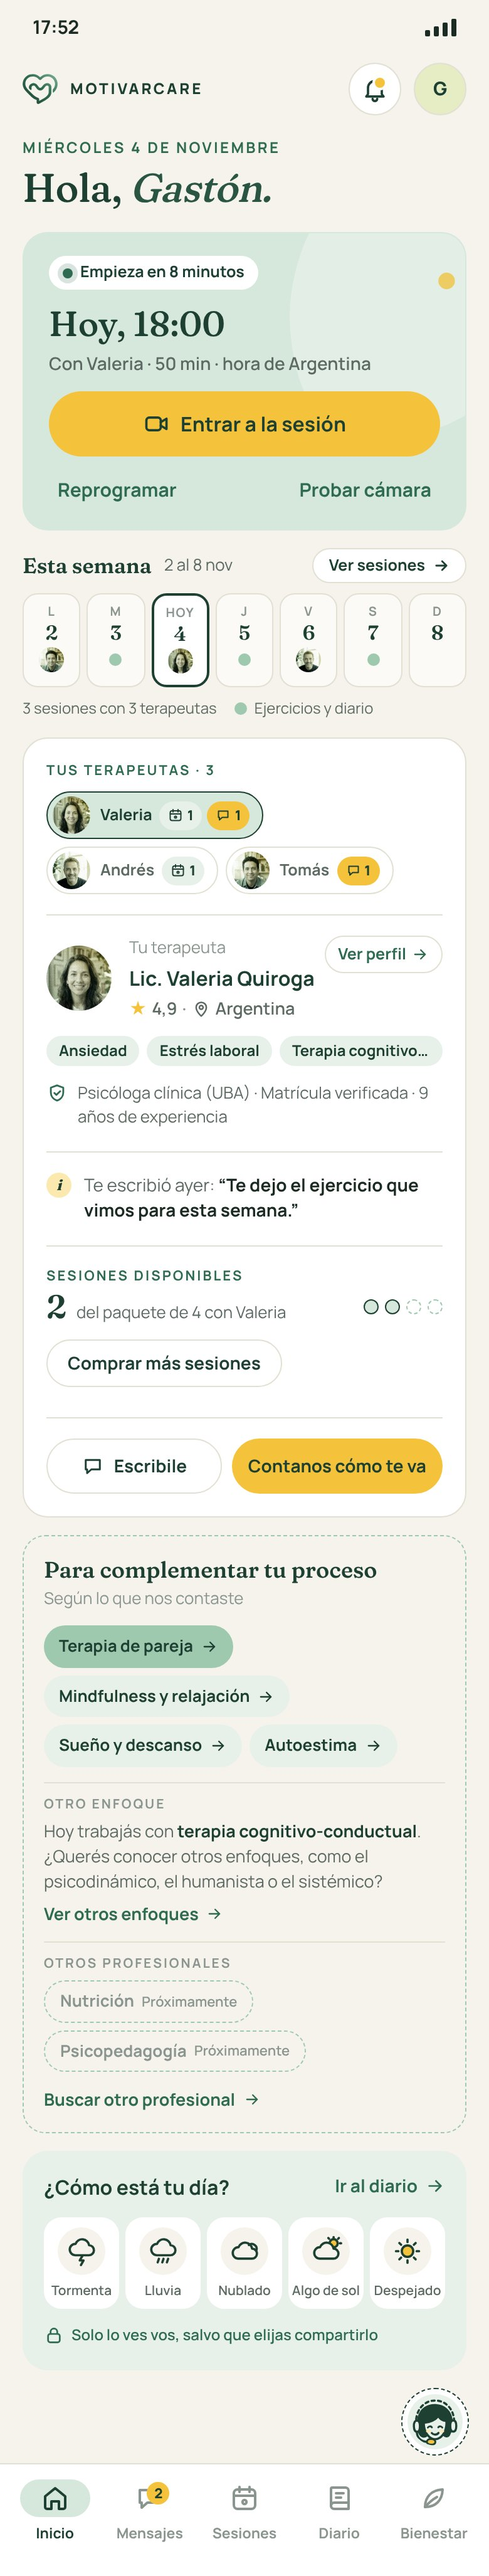
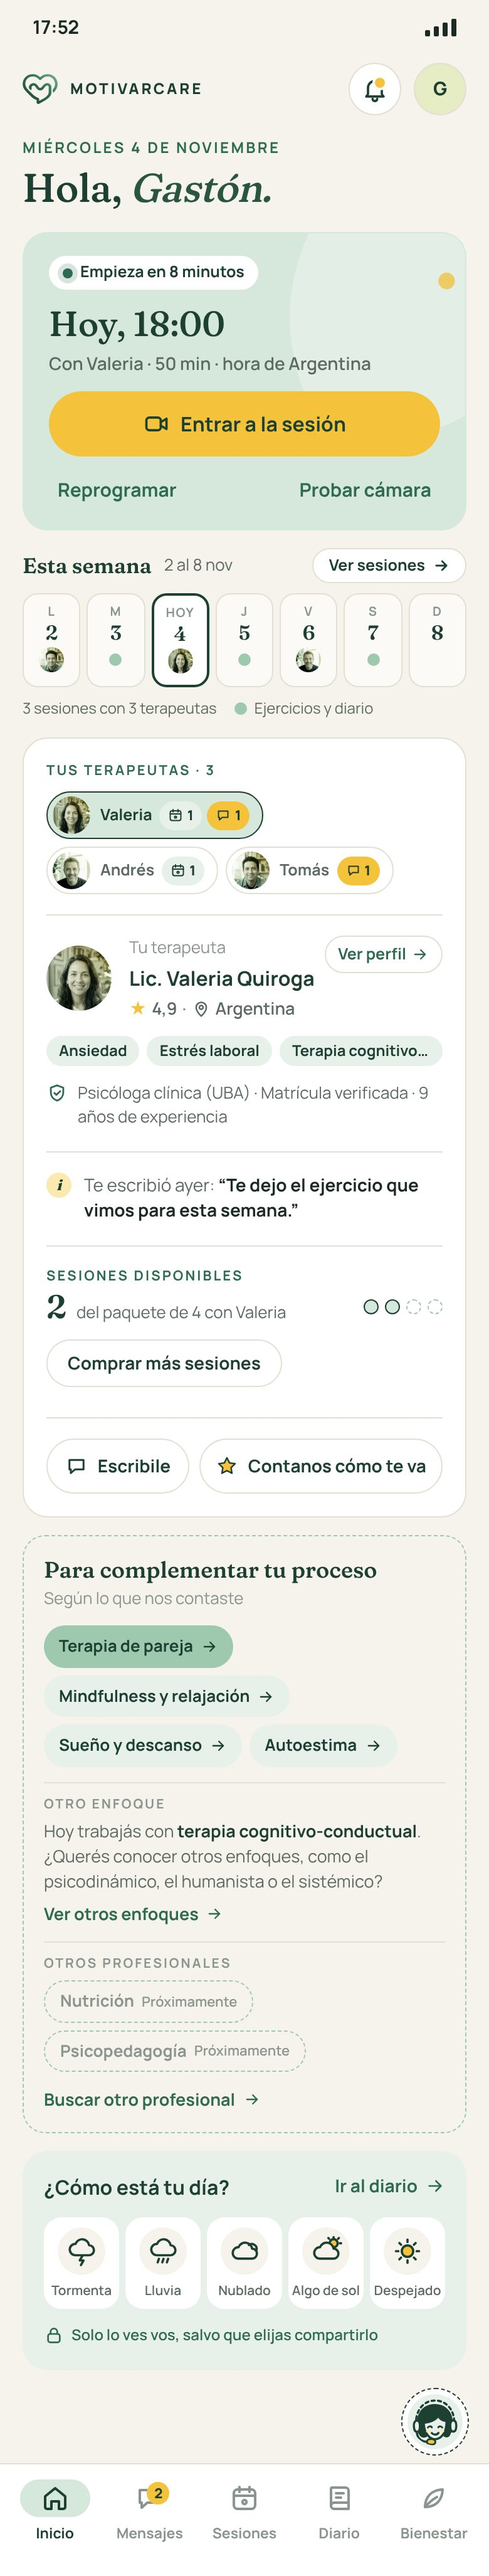
Ronda #2: «Contanos cómo te va» de contorno con estrella amarilla
Claude-Session: https://claude.ai/code/session_01WU1DRuLLvKJwMVuiPWLics

Changed region(s): [[0.4308, 0.5609, 0.9231, 0.592], [0.3385, 0.5609, 0.3692, 0.592]]

diff --git a/web/public/app-usuario/ronda-2.html b/web/public/app-usuario/ronda-2.html
@@ -837,6 +837,7 @@ ul.lista-simple { padding: 0; }
 .pro2-cab { padding-right: 96px; }
 .tel-pro .pro2-cab { padding-right: 88px; }
 .multi .pro2-cab { padding-right: 96px; }
+.estrella-ic { width: 18px; height: 18px; fill: var(--amarillo); stroke: var(--bosque); stroke-width: 1.6; stroke-linejoin: round; flex: none; }
 </style>
 </head>
 <body>
@@ -950,7 +951,7 @@ ul.lista-simple { padding: 0; }
           <p class="credenciales"><svg class="ico"><use href="#i-escudo"/></svg>Psicóloga clínica (UBA) · Matrícula verificada · 9 años de experiencia</p>
           <div class="nota"><i>i</i><span>Te escribió ayer: <b style="color:var(--tinta)">“Te dejo el ejercicio que vimos para esta semana.”</b></span></div>
           <div class="disponibles"><span class="et">Sesiones disponibles</span><div class="fila-disp"><b>2</b><span>del paquete de 4 con Valeria</span><span class="puntos4"><i class="u"></i><i class="u"></i><i></i><i></i></span></div><a class="boton contorno comprar-mas">Comprar más sesiones</a></div>
-          <div class="botones"><a class="boton contorno"><svg class="ico chico"><use href="#i-chat"/></svg>Escribile</a><a class="boton primario">Contanos cómo te va</a></div>
+          <div class="botones"><a class="boton contorno"><svg class="ico chico"><use href="#i-chat"/></svg>Escribile</a><a class="boton contorno contar"><svg class="estrella-ic" viewBox="0 0 24 24" aria-hidden="true"><path d="M12 3.2l2.7 5.4 6 .9-4.35 4.2 1 5.9L12 16.8l-5.35 2.8 1-5.9L3.3 9.5l6-.9z"/></svg>Contanos cómo te va</a></div>
         </article>
           <div class="complementar">
             <div class="comp-cab"><b>Para complementar tu proceso</b><span class="tenue">Según lo que nos contaste</span></div>
@@ -1018,7 +1019,7 @@ ul.lista-simple { padding: 0; }
       <p class="credenciales"><svg class="ico"><use href="#i-escudo"/></svg>Psicóloga clínica (UBA) · Matrícula verificada · 9 años de experiencia</p>
           <div class="nota"><i>i</i><span>Te escribió ayer: <b style="color:var(--tinta)">“Te dejo el ejercicio que vimos para esta semana.”</b></span></div>
       <div class="disponibles"><span class="et">Sesiones disponibles</span><div class="fila-disp"><b>2</b><span>del paquete de 4 con Valeria</span><span class="puntos4"><i class="u"></i><i class="u"></i><i></i><i></i></span></div><a class="boton contorno comprar-mas">Comprar más sesiones</a></div>
-      <div class="botones"><a class="boton contorno"><svg class="ico chico"><use href="#i-chat"/></svg>Escribile</a><a class="boton primario">Contanos cómo te va</a></div>
+      <div class="botones"><a class="boton contorno"><svg class="ico chico"><use href="#i-chat"/></svg>Escribile</a><a class="boton contorno contar"><svg class="estrella-ic" viewBox="0 0 24 24" aria-hidden="true"><path d="M12 3.2l2.7 5.4 6 .9-4.35 4.2 1 5.9L12 16.8l-5.35 2.8 1-5.9L3.3 9.5l6-.9z"/></svg>Contanos cómo te va</a></div>
     </article>
     <div class="complementar tel-comp">
             <div class="comp-cab"><b>Para complementar tu proceso</b><span class="tenue">Según lo que nos contaste</span></div>
@@ -1135,7 +1136,7 @@ ul.lista-simple { padding: 0; }
           <div class="pills"><span class="chip">Ansiedad</span><span class="chip">Estrés laboral</span><span class="chip">Terapia cognitivo-conductual</span><span class="chip">Autoestima</span><span class="chip">Vínculos</span></div>
           <p class="credenciales"><svg class="ico"><use href="#i-escudo"/></svg>Psicóloga clínica (UBA) · Matrícula verificada · 9 años de experiencia</p>
           <div class="disponibles"><span class="et">Sesiones disponibles</span><div class="fila-disp"><b>1</b><span>del paquete de 4 con Valeria</span><span class="puntos4"><i class="u"></i><i class="u"></i><i class="u"></i><i></i></span></div><a class="boton bosque comprar-mas">Comprar más sesiones</a></div>
-          <div class="botones"><a class="boton contorno"><svg class="ico chico"><use href="#i-chat"/></svg>Escribile</a><a class="boton primario">Contanos cómo te va</a></div>
+          <div class="botones"><a class="boton contorno"><svg class="ico chico"><use href="#i-chat"/></svg>Escribile</a><a class="boton contorno contar"><svg class="estrella-ic" viewBox="0 0 24 24" aria-hidden="true"><path d="M12 3.2l2.7 5.4 6 .9-4.35 4.2 1 5.9L12 16.8l-5.35 2.8 1-5.9L3.3 9.5l6-.9z"/></svg>Contanos cómo te va</a></div>
         </article>
           <div class="complementar">
             <div class="comp-cab"><b>Para complementar tu proceso</b><span class="tenue">Según lo que nos contaste</span></div>
@@ -1207,7 +1208,7 @@ ul.lista-simple { padding: 0; }
       <div class="pills"><span class="chip">Ansiedad</span><span class="chip">Estrés laboral</span><span class="chip">Terapia cognitivo-conductual</span><span class="chip">Autoestima</span><span class="chip">Vínculos</span></div>
       <p class="credenciales"><svg class="ico"><use href="#i-escudo"/></svg>Psicóloga clínica (UBA) · Matrícula verificada · 9 años de experiencia</p>
       <div class="disponibles"><span class="et">Sesiones disponibles</span><div class="fila-disp"><b>1</b><span>del paquete de 4 con Valeria</span><span class="puntos4"><i class="u"></i><i class="u"></i><i class="u"></i><i></i></span></div><a class="boton bosque comprar-mas">Comprar más sesiones</a></div>
-      <div class="botones"><a class="boton contorno"><svg class="ico chico"><use href="#i-chat"/></svg>Escribile</a><a class="boton primario">Contanos cómo te va</a></div>
+      <div class="botones"><a class="boton contorno"><svg class="ico chico"><use href="#i-chat"/></svg>Escribile</a><a class="boton contorno contar"><svg class="estrella-ic" viewBox="0 0 24 24" aria-hidden="true"><path d="M12 3.2l2.7 5.4 6 .9-4.35 4.2 1 5.9L12 16.8l-5.35 2.8 1-5.9L3.3 9.5l6-.9z"/></svg>Contanos cómo te va</a></div>
     </article>
     <div class="complementar tel-comp">
             <div class="comp-cab"><b>Para complementar tu proceso</b><span class="tenue">Según lo que nos contaste</span></div>
@@ -1504,7 +1505,7 @@ ul.lista-simple { padding: 0; }
           <p class="credenciales"><svg class="ico"><use href="#i-escudo"/></svg>Psicóloga clínica (UBA) · Matrícula verificada · 9 años de experiencia</p>
           <div class="nota"><i>i</i><span>Te escribió ayer: <b style="color:var(--tinta)">“Te dejo el ejercicio que vimos para esta semana.”</b></span></div>
           <div class="disponibles"><span class="et">Sesiones disponibles</span><div class="fila-disp"><b>2</b><span>del paquete de 4 con Valeria</span><span class="puntos4"><i class="u"></i><i class="u"></i><i></i><i></i></span></div><a class="boton contorno comprar-mas">Comprar más sesiones</a></div>
-          <div class="botones"><a class="boton contorno"><svg class="ico chico"><use href="#i-chat"/></svg>Escribile</a><a class="boton primario">Contanos cómo te va</a></div>
+          <div class="botones"><a class="boton contorno"><svg class="ico chico"><use href="#i-chat"/></svg>Escribile</a><a class="boton contorno contar"><svg class="estrella-ic" viewBox="0 0 24 24" aria-hidden="true"><path d="M12 3.2l2.7 5.4 6 .9-4.35 4.2 1 5.9L12 16.8l-5.35 2.8 1-5.9L3.3 9.5l6-.9z"/></svg>Contanos cómo te va</a></div>
         </article>
           <div class="complementar">
             <div class="comp-cab"><b>Para complementar tu proceso</b><span class="tenue">Según lo que nos contaste</span></div>
@@ -1580,7 +1581,7 @@ ul.lista-simple { padding: 0; }
       <p class="credenciales"><svg class="ico"><use href="#i-escudo"/></svg>Psicóloga clínica (UBA) · Matrícula verificada · 9 años de experiencia</p>
           <div class="nota"><i>i</i><span>Te escribió ayer: <b style="color:var(--tinta)">“Te dejo el ejercicio que vimos para esta semana.”</b></span></div>
       <div class="disponibles"><span class="et">Sesiones disponibles</span><div class="fila-disp"><b>2</b><span>del paquete de 4 con Valeria</span><span class="puntos4"><i class="u"></i><i class="u"></i><i></i><i></i></span></div><a class="boton contorno comprar-mas">Comprar más sesiones</a></div>
-      <div class="botones"><a class="boton contorno"><svg class="ico chico"><use href="#i-chat"/></svg>Escribile</a><a class="boton primario">Contanos cómo te va</a></div>
+      <div class="botones"><a class="boton contorno"><svg class="ico chico"><use href="#i-chat"/></svg>Escribile</a><a class="boton contorno contar"><svg class="estrella-ic" viewBox="0 0 24 24" aria-hidden="true"><path d="M12 3.2l2.7 5.4 6 .9-4.35 4.2 1 5.9L12 16.8l-5.35 2.8 1-5.9L3.3 9.5l6-.9z"/></svg>Contanos cómo te va</a></div>
     </article>
     <div class="complementar tel-comp">
             <div class="comp-cab"><b>Para complementar tu proceso</b><span class="tenue">Según lo que nos contaste</span></div>

diff --git a/06-app-usuario/historial/ronda-2.md b/06-app-usuario/historial/ronda-2.md
@@ -160,7 +160,7 @@ Toma como base el Inicio B3 de la [Ronda #1](/06-app-usuario/historial/ronda-1/)
 - **Una línea con sus credenciales:** "Psicóloga clínica (UBA) · Matrícula verificada · 9 años de experiencia", con el ícono del escudo.
 - **El último mensaje sin leer**, en una nota sutil (círculo amarillo suave con la "i" y el texto: "Te escribió ayer: …"). **Solo aparece si hay un mensaje sin leer**; si no, la tarjeta pasa directo a las sesiones.
 - **Las sesiones disponibles con ese profesional:** "2 del paquete de 4 con Valeria", con cuatro puntos (sólidos las usadas o reservadas, punteados las disponibles). La próxima sesión ya está en la tarjeta verde y la última, en la agenda de la semana o en Sesiones.
-- **Acciones:** abajo, separados por una línea, "Escribile" (abre el chat) y "Contanos cómo te va" (en amarillo, a prueba); "Ver perfil" arriba a la derecha. "Comprar más sesiones" está en el apartado de sesiones disponibles (ver los ajustes del 13/11). 
+- **Acciones:** abajo, separados por una línea, "Escribile" (abre el chat) y "Contanos cómo te va" (de contorno, con una estrella amarilla); "Ver perfil" arriba a la derecha. "Comprar más sesiones" está en el apartado de sesiones disponibles (ver los ajustes del 13/11). 
 
 Otros cambios respecto del B3:
 
@@ -296,7 +296,7 @@ Una de las decisiones de esta ronda es trabajar con **pocos componentes, robusto
 | [![Navegación principal](/img/app-usuario/ronda-2/componentes/navegacion.jpg)](/img/app-usuario/ronda-2/componentes/navegacion.jpg) | **Navegación principal** | Llevar a los cinco destinos: Inicio, Mensajes, Sesiones, Diario y Bienestar, con el contador de mensajes sin leer. | Todas las pantallas, salvo la contratación (mockup 7). | Barra lateral (escritorio) y barra inferior (teléfono). |
 | [![Cabecera guía](/img/app-usuario/ronda-2/componentes/cabecera-guia.jpg)](/img/app-usuario/ronda-2/componentes/cabecera-guia.jpg) | **Cabecera guía** | Encabezar el Inicio con una tarjeta verde salvia que dice lo que la persona tiene que hacer ahora, con un único botón amarillo. Responde siempre "¿qué tengo que hacer ahora?". | Inicio con profesional (mockups 1, 2 y 4). | Sesión por empezar ("Entrar a la sesión", "Reprogramar"); sin turnos (próximos horarios libres y "Reservar sesión"). |
 | [![Primeros pasos](/img/app-usuario/ronda-2/componentes/primeros-pasos.jpg)](/img/app-usuario/ronda-2/componentes/primeros-pasos.jpg) | **Primeros pasos** | Guiar al usuario nuevo hacia su primera sesión: una tarjeta verde bosque con los cuatro pasos (el actual en amarillo, los pendientes punteados), "Ver terapeutas" y la aclaración de precios. | Inicio sin profesional (mockup 3). | — |
-| [![Ficha del profesional](/img/app-usuario/ronda-2/componentes/ficha-profesional.jpg)](/img/app-usuario/ronda-2/componentes/ficha-profesional.jpg) | **Ficha del profesional** | Decir siempre con quién se hace, se paga o se reserva: foto, nombre, calificación y país, especialidades, credenciales y acciones. En esta fase todos son terapeutas (en pantalla dice "Tu terapeuta"). | Inicio (mockups 1, 2 y 4), Buscador de profesionales (mockups 5 y 6), contratación (mockup 7) y reserva (mockup 8). | Completa (con el mensaje sin leer y las sesiones disponibles, con "Comprar más sesiones" cuando ya se usó la mitad del paquete, en verde bosque si queda 1 o ninguna; abajo, separados por una línea, "Escribile" y "Contanos cómo te va", en amarillo; "Ver perfil" arriba a la derecha); con **selector de profesionales** (pastillas con avisos de sesiones y mensajes, el principal primero); resumida (dentro del Resumen de contratación); compacta (teléfono); **resultado de búsqueda** (en el Buscador de profesionales, con las especialidades que coinciden, el precio del encuentro inicial, "Ver perfil y horarios" y "Ver paquetes"). |
+| [![Ficha del profesional](/img/app-usuario/ronda-2/componentes/ficha-profesional.jpg)](/img/app-usuario/ronda-2/componentes/ficha-profesional.jpg) | **Ficha del profesional** | Decir siempre con quién se hace, se paga o se reserva: foto, nombre, calificación y país, especialidades, credenciales y acciones. En esta fase todos son terapeutas (en pantalla dice "Tu terapeuta"). | Inicio (mockups 1, 2 y 4), Buscador de profesionales (mockups 5 y 6), contratación (mockup 7) y reserva (mockup 8). | Completa (con el mensaje sin leer y las sesiones disponibles, con "Comprar más sesiones" cuando ya se usó la mitad del paquete, en verde bosque si queda 1 o ninguna; abajo, separados por una línea, "Escribile" y "Contanos cómo te va", de contorno con una estrella amarilla; "Ver perfil" arriba a la derecha); con **selector de profesionales** (pastillas con avisos de sesiones y mensajes, el principal primero); resumida (dentro del Resumen de contratación); compacta (teléfono); **resultado de búsqueda** (en el Buscador de profesionales, con las especialidades que coinciden, el precio del encuentro inicial, "Ver perfil y horarios" y "Ver paquetes"). |
 | [![Buscador de profesionales](/img/app-usuario/ronda-2/componentes/buscador-profesionales.jpg)](/img/app-usuario/ronda-2/componentes/buscador-profesionales.jpg) | **Buscador de profesionales** | Encontrar y elegir un profesional: la lista de fichas (resultados de búsqueda), el orden por compatibilidad (con prioridad a una especialidad) o por precio, el filtro "Mostrar" por categoría de profesional y el panel "Lo que nos contaste", con "Cambiar mis respuestas". | Elección de profesional (mockups 5 y 6), desde "Ver terapeutas" (mockup 3) o desde el Cross-selling de profesionales, con los filtros cargados. | Por defecto ("Compatibilidad", según todas tus respuestas) o con una especialidad elegida (el control dice su nombre); escritorio (panel a la derecha) y teléfono (respuestas como pills). |
 | [![Selector de paquetes](/img/app-usuario/ronda-2/componentes/selector-paquetes.jpg)](/img/app-usuario/ronda-2/componentes/selector-paquetes.jpg) | **Selector de paquetes** | Elegir qué contratar con un profesional: el encuentro inicial o un paquete, con su precio, su ahorro y el precio por sesión, y la opción de usar un código de descuento. | Contratación (mockup 7), desde "Ver paquetes" o "Comprar más sesiones". | Primera vez con ese profesional (el encuentro inicial recomendado y elegido por defecto) o ya con sesiones previas (los paquetes primero). |
 | [![Resumen de contratación](/img/app-usuario/ronda-2/componentes/resumen-contratacion.jpg)](/img/app-usuario/ronda-2/componentes/resumen-contratacion.jpg) | **Resumen de contratación** | Responder, junto a la acción, con quién, qué y cuánto: contiene la Ficha del profesional (variante resumida), las aclaraciones del servicio (videollamada de 50 minutos y reprogramación sin costo hasta 24 h antes), el desglose y el total, y el botón amarillo con su aclaración. | Contratación (mockup 7) y reserva (mockup 8). | **Contratación** (desglose, total y "Continuar al pago", con "Es el monto exacto que vas a ver en el pago"); **reserva** ("Tu sesión" con el día y la hora elegidos, y "Reservar sesión", "Reservar y proceder al pago" o "Reprogramar sesión"); columna derecha (escritorio) o barra fija (teléfono). |
@@ -362,4 +362,4 @@ En el **Cross-selling de profesionales**, las especialidades sugeridas (no la mo
 - **"Comprar más sesiones"** pasa al apartado de **sesiones disponibles**, debajo del número. **No aparece hasta que la persona usó al menos la mitad de las sesiones de su paquete.** Si le queda 1 sesión o ninguna, el botón pasa de blanco a **verde bosque**, para darle más relevancia. En los mockups 1 y 4 quedan 2 de 4 (botón blanco); el mockup 2 pasa a tener 1 de 4 (botón verde bosque), y su saludo y su botón amarillo lo dicen ("Te queda 1 sesión disponible con Valeria", "Usás tu última sesión disponible con Valeria").
 - **"Ver perfil"** queda arriba a la derecha de la ficha: con tres botones abajo no entraba en la misma fila (también en la reserva, mockup 8).
 - **Línea divisoria arriba de los botones**, como entre los demás apartados de la ficha.
-- **Nuevo botón: "Contanos cómo te va"**, en **amarillo** (a prueba). También aparece a partir de la mitad del paquete (o cuando no quedan sesiones), y abre un componente para dar feedback sobre el proceso con el profesional y calificarlo. Ese componente está por diseñar.
+- **Nuevo botón: "Contanos cómo te va"**, blanco con contorno, como "Escribile", y con una **estrella amarilla** que le da jerarquía sin competir con el botón amarillo de la pantalla (se probó en amarillo, pero competía con el CTA). También aparece a partir de la mitad del paquete (o cuando no quedan sesiones), y abre un componente para dar feedback sobre el proceso con el profesional y calificarlo. Ese componente está por diseñar.
